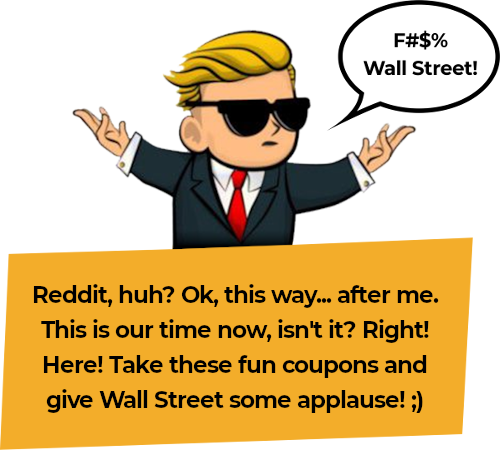
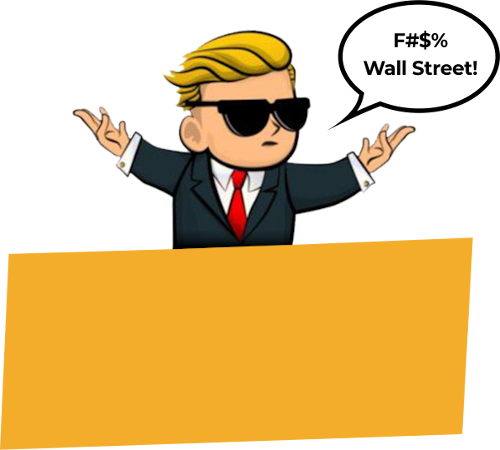
animate text in header

Changed region(s): [[0.09, 0.7156, 0.87, 0.84], [0.06, 0.6222, 0.87, 0.6844], [0.09, 0.8711, 0.87, 0.9333]]

diff --git a/pages/index.vue b/pages/index.vue
@@ -2,7 +2,7 @@
   <div
     class="container py-5 d-flex flex-column justify-content-center align-items-center"
   >
-    <img src="header.png" style="max-width: 95%" />
+    <div id="header"></div>
     <h5 class="mb-5 text-center"></h5>
     <div class="bg-brand px-5 py-4 text-center">
       <div v-if="isEthereumBrowser">
@@ -211,6 +211,7 @@ export default {
     const error = urlParams.get('error')
     const code = urlParams.get('code')
     if (code && !error) {
+      this.putText()
       this.loadingData = true
       this.$axios
         .$post(process.env.API_URL + '/access-token', {
@@ -264,6 +265,8 @@ export default {
             })
         })
         .catch(() => (this.loadingData = false))
+    } else {
+      this.typeTexts()
     }
   },
   methods: {
@@ -314,6 +317,32 @@ export default {
           })
           .catch((e) => (this.requestingClaim = false))
       }
+    },
+    typeTexts() {
+      const texts = [
+        'Reddit, huh?',
+        ' Ok, this way... after me.',
+        " This is our time, isn't it?",
+        ' Right!',
+        " Here! Take these fun coupons and don't forget to give Wall Street some slow claps.",
+        ' ;)',
+      ]
+      setTimeout(() => this.typeText(texts[0]), 1000)
+      setTimeout(() => this.typeText(texts[1]), 3000)
+      setTimeout(() => this.typeText(texts[2]), 6000)
+      setTimeout(() => this.typeText(texts[3]), 8000)
+      setTimeout(() => this.typeText(texts[4]), 10000)
+      setTimeout(() => this.typeText(texts[5]), 16000)
+    },
+    typeText(text, pos = 0) {
+      if (pos < text.length) {
+        document.getElementById('header').innerHTML += text.charAt(pos)
+        setTimeout(() => this.typeText(text, pos + 1), 50)
+      }
+    },
+    putText() {
+      document.getElementById('header').innerHTML =
+        "Reddit, huh? Ok, this way... after me. This is our time, isn't it? Right! Here! Take these fun coupons and don't forget to give Wall Street some slow claps. ;)"
     },
   },
 }

diff --git a/assets/main.sass b/assets/main.sass
@@ -16,3 +16,15 @@ a:not(.btn)
 .btn-brand
   background-color: darken(#f3ad2a, 10)
   font-weight: bold
+
+#header
+  background-image: url('/header.png')
+  background-size: contain
+  background-position: center center
+  background-repeat: no-repeat
+  font-size: 1.25rem
+  font-weight: bold
+  width: 500px
+  height: 450px
+  padding: 280px 40px 0 20px
+  text-align: center
